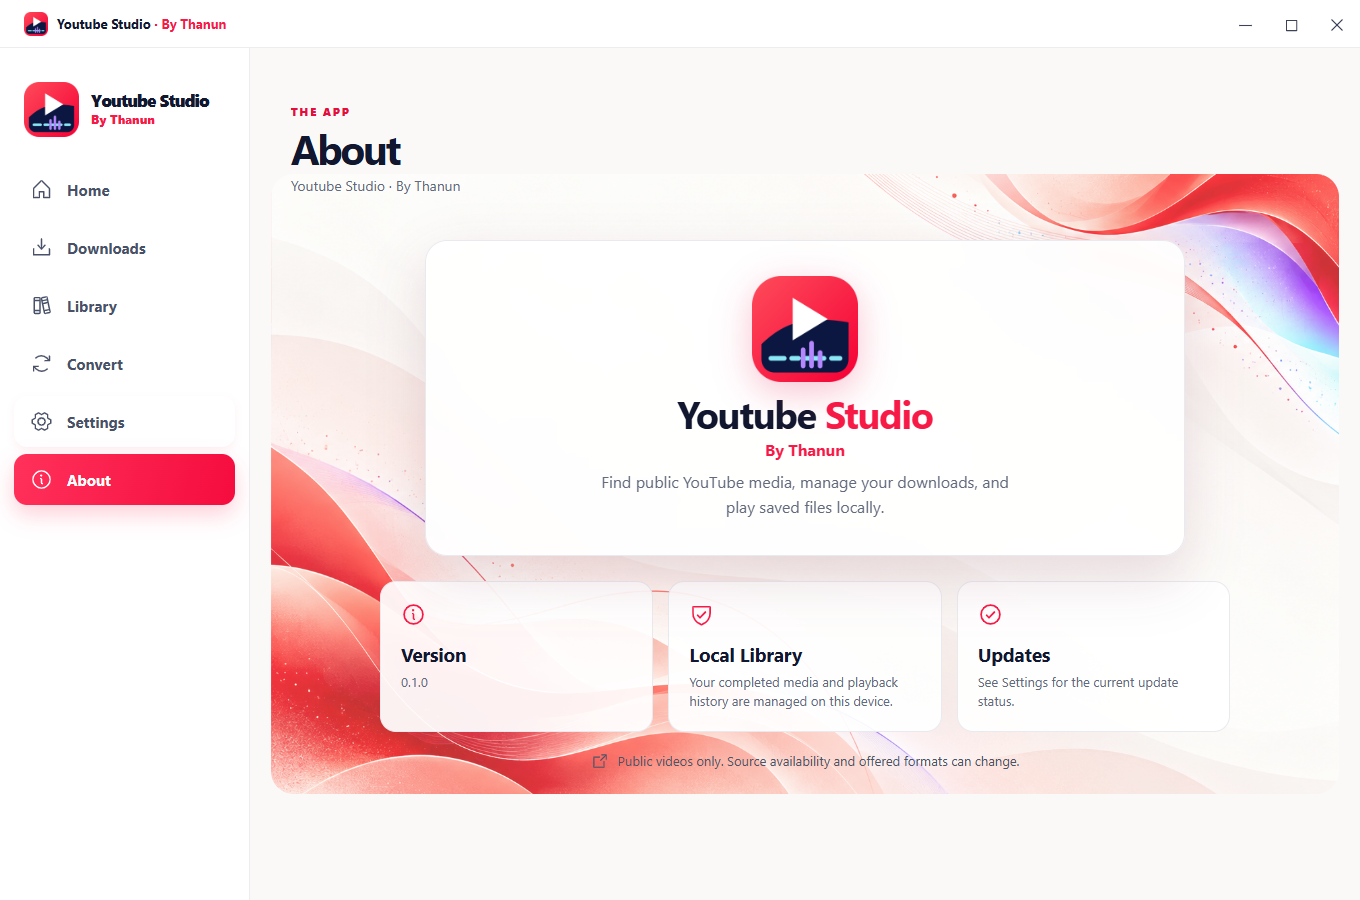
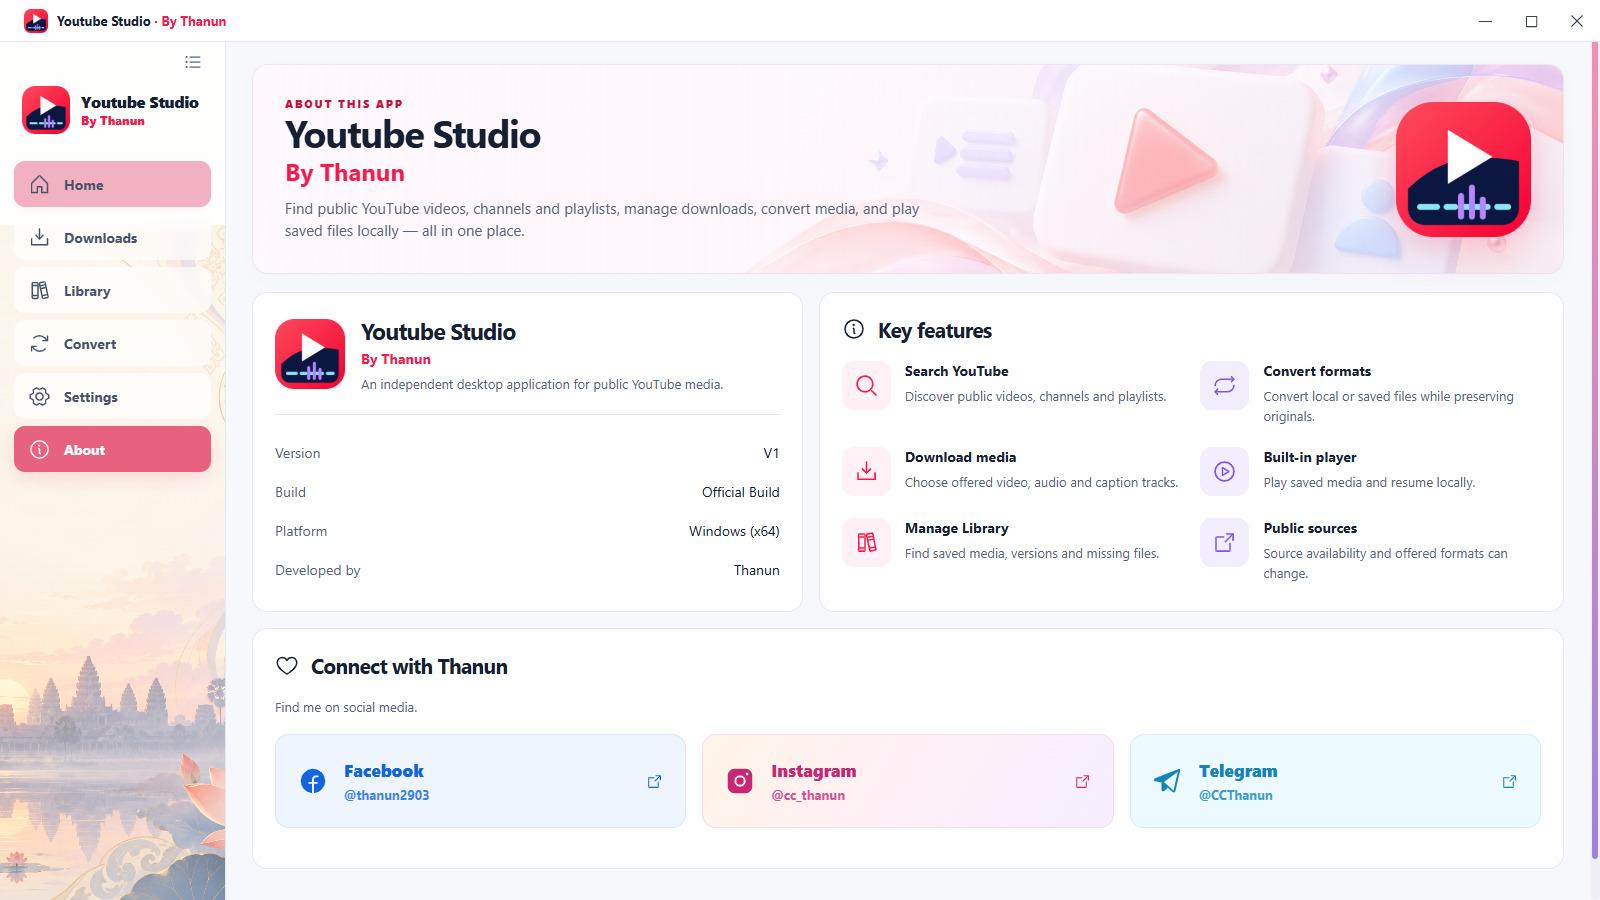
Introduce V1 Official Build downloads and verified release notes

diff --git a/RELEASE_NOTES_V1.md b/RELEASE_NOTES_V1.md
@@ -1,0 +1,28 @@
+# Youtube Studio · V1 — Official Build
+
+V1 includes the latest approved interface, download, conversion, Library, playback and recovery improvements.
+
+- Clearer channel cards with supported public banners, overlapping profile pictures, subscriber information and accessible expanded details.
+- A collection download toolbar aligned to the content area, with wrapping controls and space reserved below the final cards.
+- Improved Quality selection, Settings layout, collection List view and brief notifications.
+- Public preview fixes and simpler refresh/fullscreen controls.
+- Video output choices including MP4, MOV, MKV and WebM; audio choices including MP3, M4A, WAV, FLAC and OGG. Conversion keeps the original media.
+- Bounded history rendering, direct Library lookup, reliable playback persistence, duplicate inspection and recovery improvements.
+- About now shows **V1** / **Official Build** with Thanun's social links.
+- A refreshed branded English installer with directory choice, shortcuts and data-preserving uninstall.
+
+## Downloads
+
+Choose **Setup** for normal installation or **Portable** to run without installation. Both are Windows x64 builds, version **1.0.0**. Close the running app before replacing an older build. Saved media is not deleted by installation or uninstall.
+
+The Windows executables are **unsigned**. Windows may display an unknown-publisher notice. `SHA256SUMS.txt` identifies the exact release files. Installed builds verify signed update metadata and installer hashes before offering the verified installer; portable updates use manual replacement.
+
+## Verification and limits
+
+Build, 214 unit tests, focused source/package desktop regressions, portable startup and isolated install/launch/uninstall checks passed. The latest channel-card/toolbar checks pass in the V1 package. A local signed HTTPS fixture verifies update trust, download and restart integrity; V1 establishes the production feed baseline, so an actual two-version production update has not yet been exercised.
+
+Native installer welcome text and installation behavior were verified. Installer artwork was inspected separately; hidden-window capture could not verify the painted wizard. Physical DPI, assistive-technology and disk-full/power-loss testing remain unverified.
+
+The Runtime Source Information archive supplies the pinned FFmpeg source, upstream build scripts, configuration/licenses and dependency-revision inventory. Complete linked/transitive dependency source assembly and reproducibility review remain incomplete; this archive is not a complete reviewed corresponding-source package or certification.
+
+Public source availability, formats and captions can change. The app uses public content only and does not request login or cookies.

diff --git a/README.md b/README.md
@@ -26,11 +26,11 @@ A colorful Windows app for saving public YouTube videos and audio, managing down
 
 <p align="center"><img src="images/convert.png" alt="Convert page in the packaged Windows app" width="760"></p>
 
-## Download status
+## V1 · Official Build
 
-The Windows installer and portable package are **not published yet**. The app has passed local build, packaged playback, and isolated install/uninstall checks. Public distribution is waiting for review of the bundled FFmpeg runtime's source/build materials and physical failure testing. This page will link to a GitHub Release when those checks are complete.
+[Download V1 for Windows x64](https://github.com/Thanun-Coding/Youtube-Studio---Release/releases/tag/v1.0.0): choose **Setup** for installation or **Portable** to run without installation. Package version: **1.0.0**. See [V1 release notes](RELEASE_NOTES_V1.md) for the latest improvements, verification and remaining limits. SHA-256 checksums and Runtime Source Information accompany the downloads.
 
-The Windows executables will be **unsigned**, by the owner's decision. Windows may show an unknown-publisher warning. The app supports public content only; it does not request YouTube login or cookies. Source availability, offered qualities, and captions can change.
+The Windows executables are **unsigned**, by the owner's decision. Windows may show an unknown-publisher warning. The app supports public content only; it does not request YouTube login or cookies. Source availability, offered qualities, and captions can change. Complete linked-dependency source/reproducibility review and physical failure testing remain incomplete; the supplied source-information archive does not certify those checks.
 
 ## Updates
 
